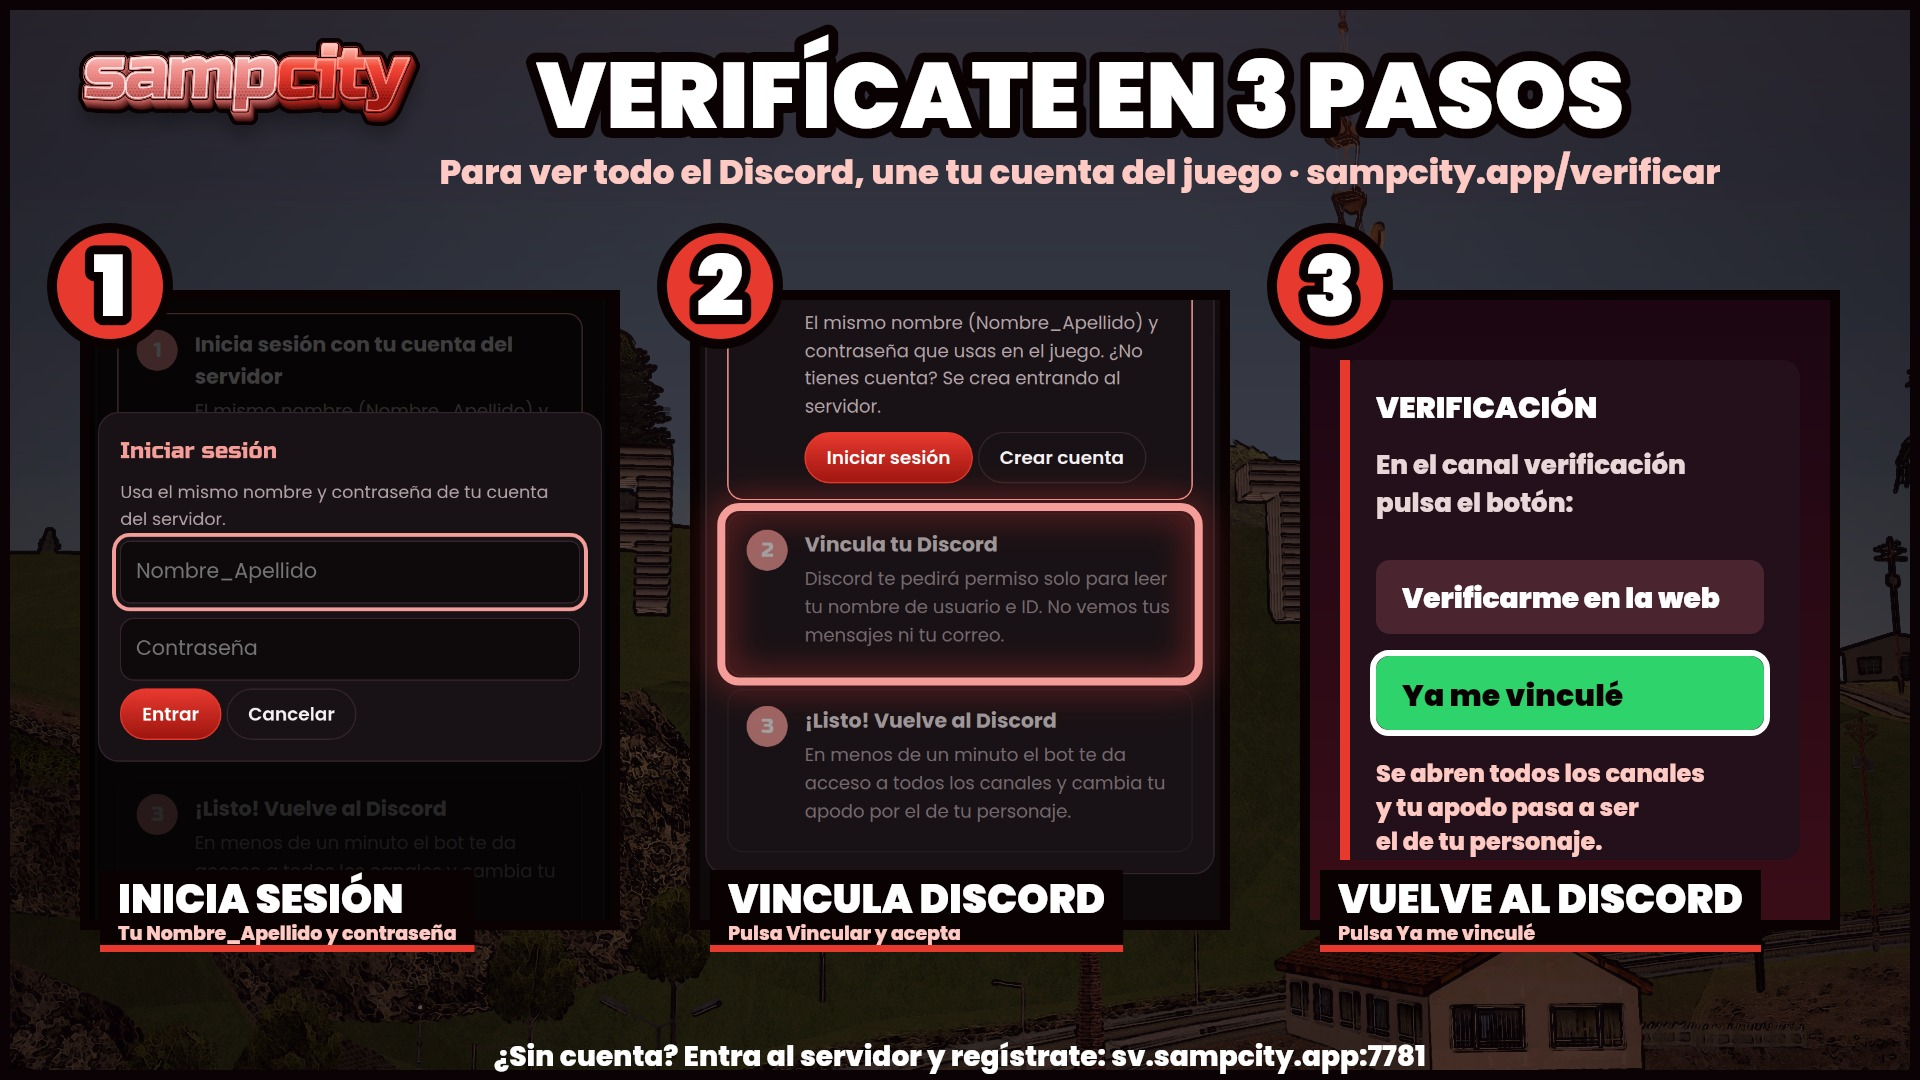
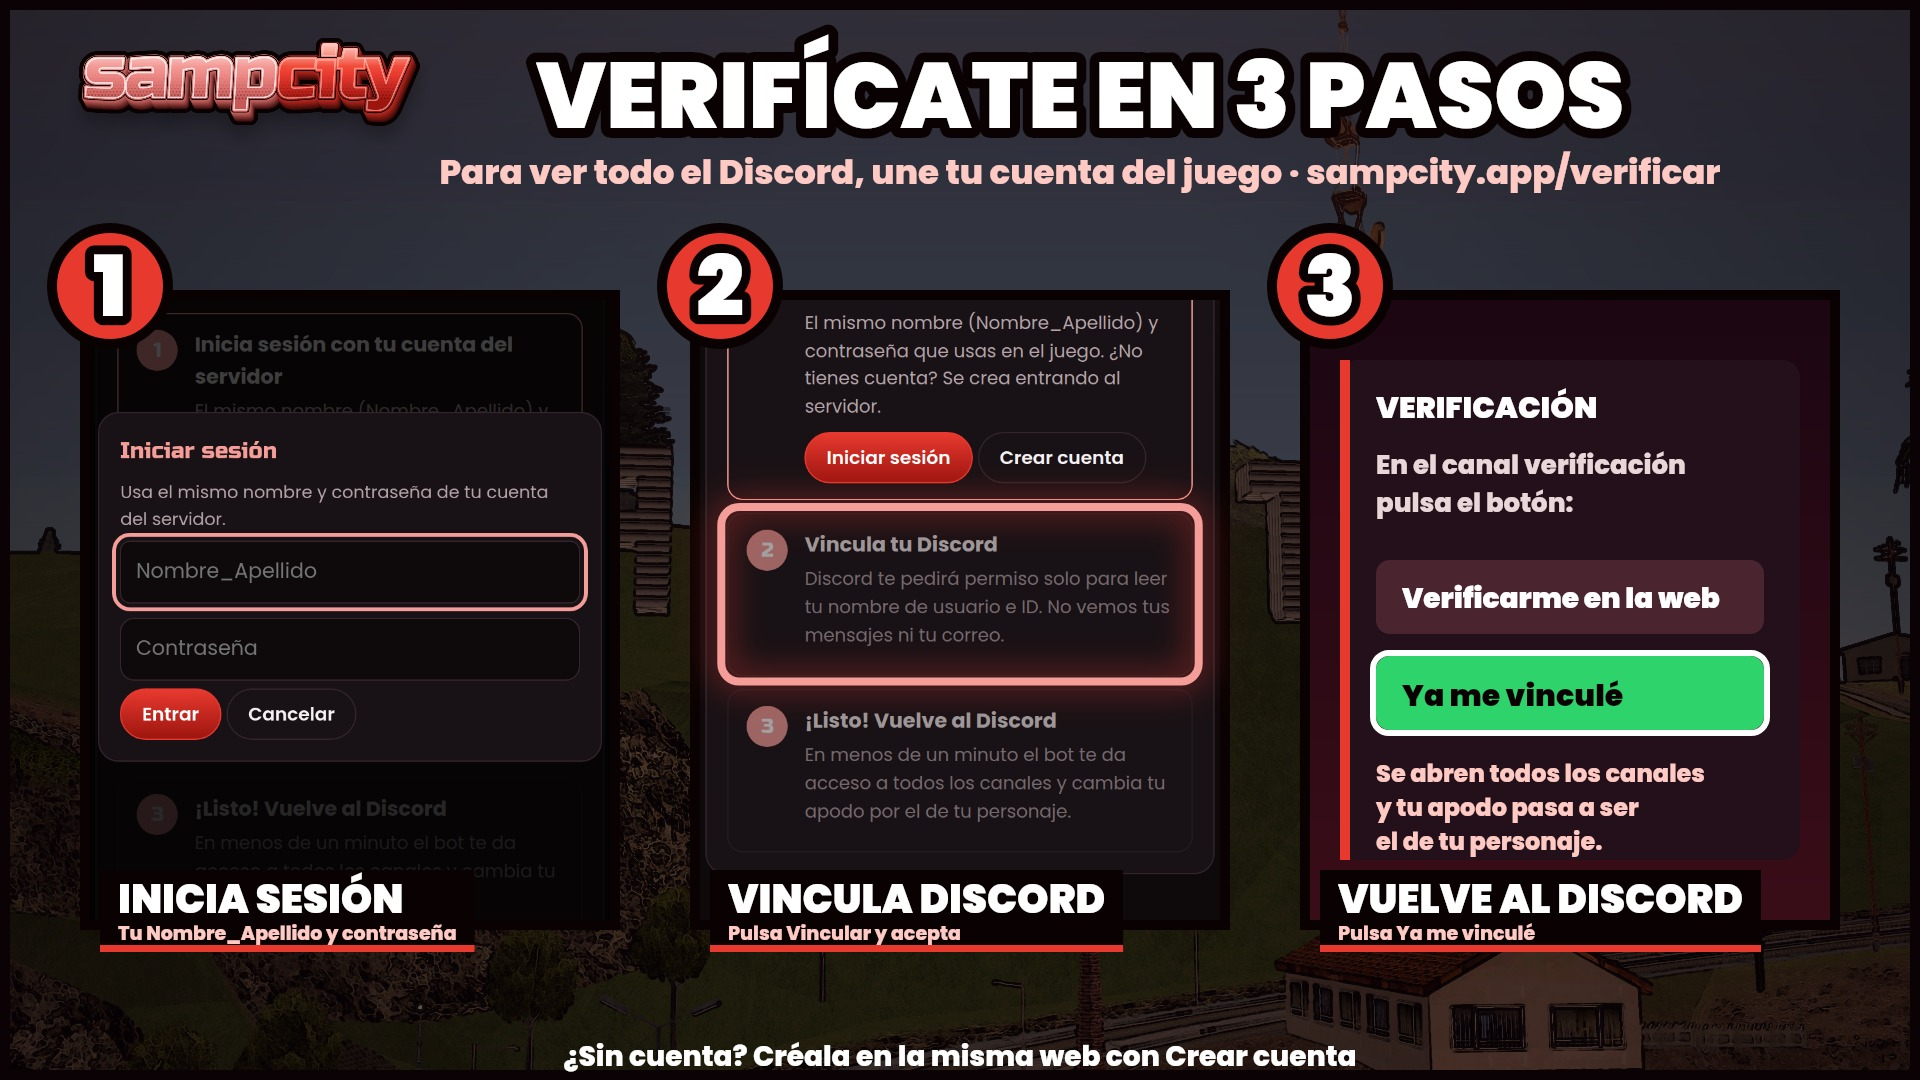
Verificación: la cuenta ya se puede crear en la web
- El panel del canal de verificación dice que la cuenta se crea en la web con Crear cuenta (antes: entrar al juego).
- Imagen nueva registro.jpg y pie de verificacion.jpg actualizado (scripts/verificacion.js).

Claude-Session: https://claude.ai/code/session_01DwYAqD77pap66newJ2Hoc8

Changed region(s): [[0.25, 0.9472, 0.75, 1.0]]

diff --git a/branding/scripts/verificacion.js b/branding/scripts/verificacion.js
@@ -6,7 +6,8 @@
  * Uso: node branding/scripts/verificacion.js <carpeta> [salida]
  *   <carpeta>: renders del juego (cartel.png, facciones.png; los de tools/render del repo Backup) y capturas de
  *   https://sampcity.app/verificar a 420 px de ancho (verificar.png y verificar-login.png, con el formulario abierto).
- *   salida por defecto: branding/marca/verificacion-4oct/ (verificacion.jpg y rangos.jpg)
+ *   salida por defecto: branding/marca/verificacion-4oct/ (verificacion.jpg, rangos.jpg y, si está la captura
+ *   verificar-registro.png del formulario de Crear cuenta, registro.jpg)
  */
 const path = require("path");
 const fs = require("fs");
@@ -109,8 +110,34 @@ function discordStep(c, x, y, w, h) {
       label(c, t, x + 20, py + ph - 60, 40, "left", "#E8392F", s);
     });
     c.font = "28px PXB"; c.fillStyle = "#ffffff"; c.textAlign = "center";
-    c.fillText("¿Sin cuenta? Entra al servidor y regístrate: sv.sampcity.app:7781", W / 2, H - 40);
+    c.fillText("¿Sin cuenta? Créala en la misma web con Crear cuenta", W / 2, H - 40);
     save(cv, "verificacion");
+  }
+
+  // ---------------------------------------------------------- 3. Registro desde la web
+  if (fs.existsSync(path.join(IN, "verificar-registro.png"))) {
+    const cv = createCanvas(W, H), c = cv.getContext("2d");
+    background(c, await L("piloto.png"), "dia");
+    drawLogo(c, 250, 92, 360);
+    bigText(c, "CREA TU CUENTA EN LA WEB", W / 2 + 120, 128, 92, "#ffffff", "center");
+    c.font = "34px PXB"; c.fillStyle = "#FFC9C4"; c.textAlign = "center";
+    c.fillText("Ya no hace falta entrar al juego para registrarte · sampcity.app", W / 2 + 120, 184);
+    c.textAlign = "left";
+    const reg = await L("verificar-registro.png");
+    panel(c, reg, 140, 250, 620, 760, [0.5, 0.5, 1.05]);
+    const steps = [
+      ["CREA TU CUENTA", "sampcity.app · Crear cuenta: Nombre_Apellido, correo y contraseña"],
+      ["VINCULA TU DISCORD", "En la misma web, sin entrar al juego: se abren todos los canales"],
+      ["ENTRA AL SERVIDOR", "sv.sampcity.app:7781 · la primera vez creas tu personaje"],
+    ];
+    steps.forEach(([t, s2], i) => {
+      const y = 300 + i * 230;
+      step(c, i + 1, 900, y + 40);
+      label(c, t, 990, y, 50, "left", "#E8392F", s2);
+    });
+    c.font = "28px PXB"; c.fillStyle = "#ffffff"; c.textAlign = "center";
+    c.fillText("Con la misma cuenta entras al juego y a la web", W / 2, H - 40);
+    save(cv, "registro");
   }
 
   // ---------------------------------------------------------- 2. Rangos del juego en Discord

diff --git a/src/assets/utils/verification.js b/src/assets/utils/verification.js
@@ -82,7 +82,7 @@ function panel(guild) {
       "**1.** Pulsa **Verificarme en la web** e inicia sesión con tu `Nombre_Apellido` y tu contraseña del juego.\n" +
       "**2.** Pulsa **Vincular con Discord** y acepta (solo vemos tu usuario e ID).\n" +
       "**3.** Vuelve aquí: en menos de un minuto se abren los canales y tu apodo pasa a ser el de tu personaje.\n\n" +
-      "¿Aún no tienes cuenta? Entra al servidor y regístrate; luego vuelve a este paso.\n" +
+      "¿Aún no tienes cuenta? Créala en la misma web con **Crear cuenta** (no hace falta entrar al juego).\n" +
       "¿Algo no funciona? Abre un ticket en el canal de soporte (está justo aquí arriba).",
   });
   const row = new Discord.ActionRowBuilder().addComponents(

diff --git a/branding/README.md b/branding/README.md
@@ -96,7 +96,8 @@ para no parecer un clon de GTA.
   `tools/render` del repo Backup (ahora también dibuja vehículos: `CreateVehicle(modelo, x, y, z, ángulo, c1, c2)`),
   y `scripts/actualizacion.js` las "pinta" y las monta con el logo 3D.
 - `marca/verificacion-4oct/`: anuncio del 4-oct-2026 con el mismo estilo. `verificacion` (los 3 pasos, con capturas
-  reales de sampcity.app/verificar a 420 px de ancho) y `rangos` (escalera del staff con los colores de los roles).
+  reales de sampcity.app/verificar a 420 px de ancho), `rangos` (escalera del staff con los colores de los roles) y
+  `registro` (crear la cuenta en la web, con la captura del formulario).
   `scripts/verificacion.js <carpeta con cartel.png, facciones.png, verificar.png y verificar-login.png>`.
 
 ## Regenerar
